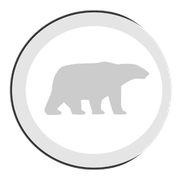
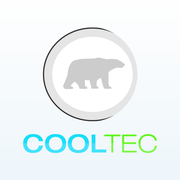
App-Symbol für den Startbildschirm (Webseite + CMS)
- iPhone/iPad: apple-touch-icon + Titel „Cool-Tec“ bzw. „Cool-Tec CMS“
- Android: Web-Manifeste mit Symbolen 192/512 + maskable, öffnen im Browser (keine echte App)
- Symbol aus dem HD-Logo: Eisbär-Kreis + Schriftzug; CMS mit „CMS“-Schild
- Tests für Manifeste und Symbole

Claude-Session: https://claude.ai/code/session_01TbveDk67pRhBf8dTBvWEMe

diff --git a/admin/index.html b/admin/index.html
@@ -6,6 +6,11 @@
 <meta name="robots" content="noindex, nofollow">
 <title>CMS · Cool-Tec</title>
 <link rel="icon" href="/brand/favicon.png">
+<link rel="apple-touch-icon" href="/brand/cms-apple-touch-icon.png">
+<link rel="manifest" href="/brand/cms.webmanifest">
+<meta name="apple-mobile-web-app-title" content="Cool-Tec CMS">
+<meta name="application-name" content="Cool-Tec CMS">
+<meta name="theme-color" content="#0d2a42">
 </head>
 <body>
 <div id="root"></div>

diff --git a/CLAUDE.md b/CLAUDE.md
@@ -23,6 +23,7 @@ Keine Arbeit nur lokal liegen lassen – der Arbeitszweig wird immer gepusht.
 
 ## Aufbau
 - `server/` Node.js ohne Framework (Node ≥ 22): `index.mjs` Routen + Kontaktformular, `views.mjs` HTML-Vorlagen, `data.mjs` Daten (Supabase → Fallback `data/seed.json`, 30 s Cache, `/api/refresh` leert ihn), `icons.mjs` Symbole.
+- App-Symbol (Startbildschirm): `public/brand/` `apple-touch-icon.png`, `icon-192/512.png`, `icon-maskable-512.png`, `site.webmanifest`; CMS: `cms-*.png` + `cms.webmanifest`. `display: browser` – bewusst keine echte App. Erzeugt aus dem HD-Logo (Kreis mit Bär + Schriftzug).
 - `public/` CSS/JS, Bilder (`img/`, WebP), Partner-Logos (`img/partner/*.svg`, fiktiv), Logo (`brand/`), Schrift Manrope selbst gehostet (`fonts/`, keine Google Fonts).
 - `admin/` CMS (Vite + React). Felder je Inhaltsart: `admin/src/schema.js`, Eingabefelder: `admin/src/fields.jsx`. Unter `/admin` ausgeliefert, wird beim Deploy gebaut.
 - Farben (aus dem Logo): Marine `#0d2a42` (Kopf/Fuß), Blau `#0a6aa8` (Links/Knöpfe, 5,8:1), Grün `#2e7d1f` (Akzent, 5,2:1), Eisblau `#eef6fb` (Flächen). Originales Logoblau `#0090d8` nur Deko.

diff --git a/ANLEITUNG.md b/ANLEITUNG.md
@@ -24,6 +24,7 @@
 - Passwort vergessen? Admin klickt beim Benutzer auf **🔑 Neues Passwort**. Zugang sperren: **Entfernen**.
 
 ## Gut zu wissen
+- **Auf den Startbildschirm legen** (Webseite oder CMS): iPhone → in Safari unten auf Teilen ⬆ → „Zum Home-Bildschirm“. Android → in Chrome ⋮ → „Zum Startbildschirm hinzufügen“. Es erscheint das Cool-Tec-Symbol (beim CMS mit „CMS“-Schild). Antippen öffnet die Seite ganz normal im Browser.
 - Gratis-Hosting (Render Free): Nach 15 Minuten ohne Besucher „schläft“ die Seite; der erste Aufruf dauert dann ca. 30–60 Sekunden.
 - Die Seite ist in der Testphase **vor Google versteckt**. Für den Start: CMS → Firma & Kontakt → „Vor Google verstecken“ ausschalten.
 - Vor dem echten Start: **Impressum und Datenschutz** durch echte Texte ersetzen, fiktive Projekte/Partner/Zahlen austauschen.
